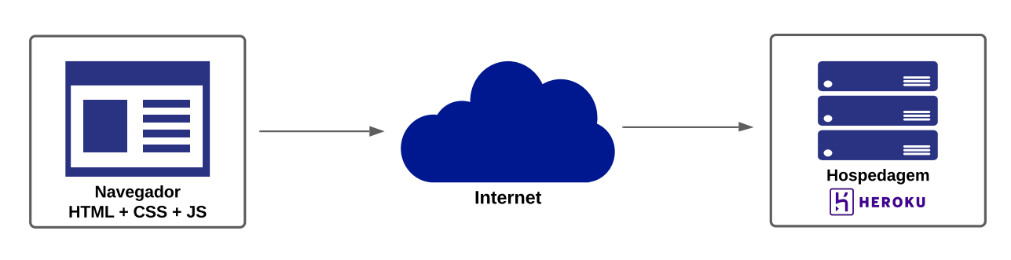
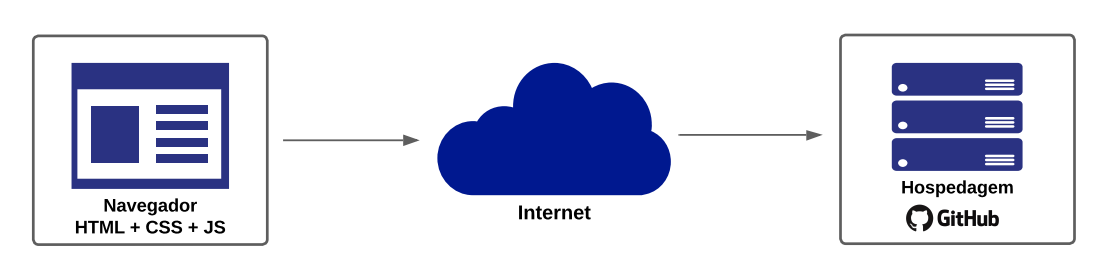
chore: atualizando documentação.

diff --git a/docs/05-Arquitetura da Solução.md b/docs/05-Arquitetura da Solução.md
@@ -31,4 +31,5 @@ A solução implementada conta com os seguintes módulos:
 
 ## Hospedagem
 
-Utilizamos a plataforma Heroku como ambiente de hospedagem do site do projeto.
+Utilizamos a plataforma GitHub Pages como ambiente de hospedagem do site do projeto. A publicação é feita através de comandos via git para o repositório que se encontra no endereço: 
+<a href="https://icei-puc-minas-pmv-ads.github.io/sus_online/">SUS Online</a>
